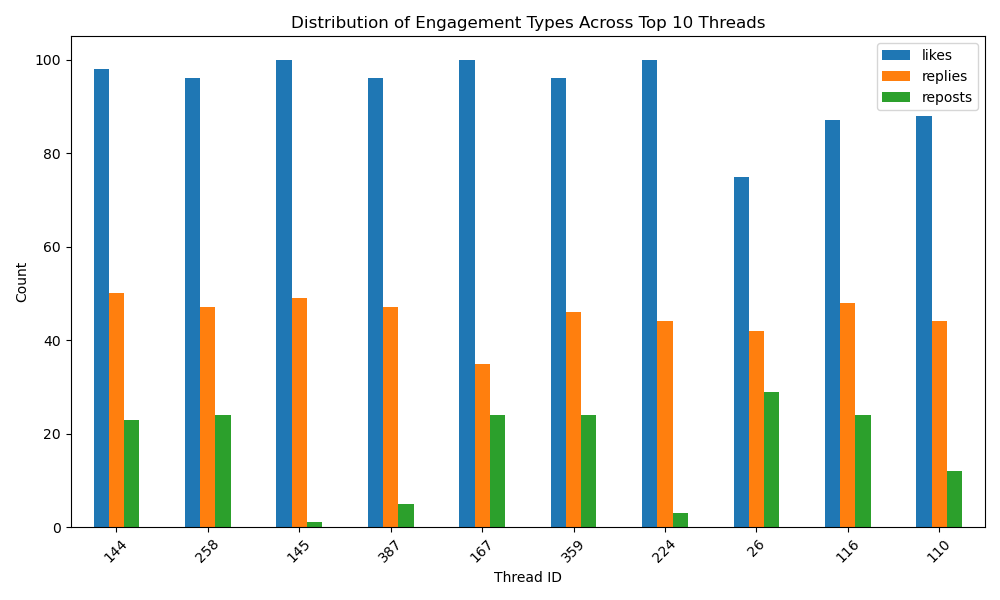
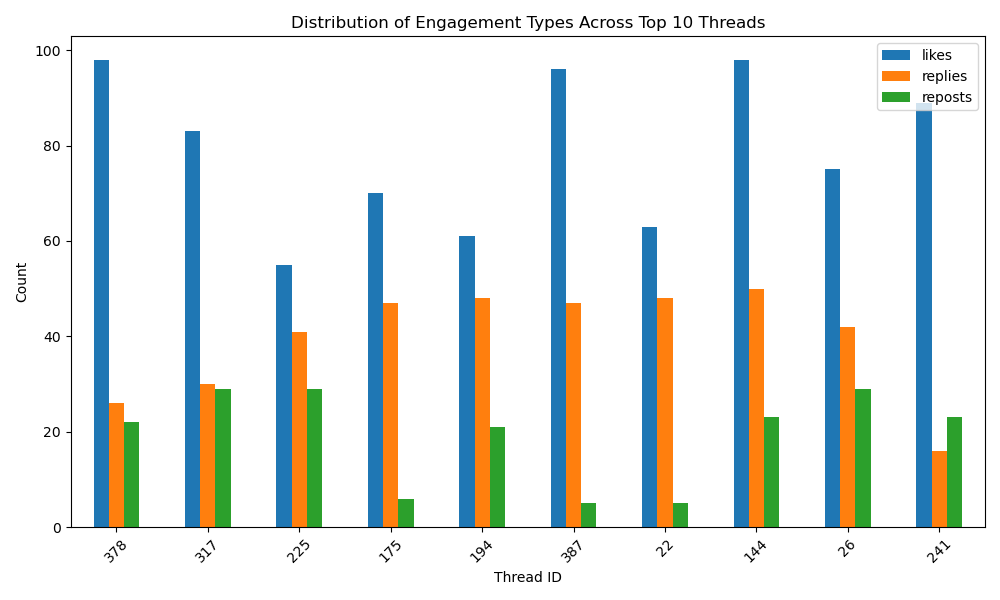
add alternate scoring function

diff --git a/main.py b/main.py
@@ -5,6 +5,7 @@ import random
 # Import functions from your other modules
 from generate_threads import generate_synthetic_thread_data
 from score_threads import score_threads_data
+from score_threads import alternate_score_threads_data
 from sort_threads import get_top_threads
 from multi_user import assign_users_to_threads
 from plot_threads import generate_and_save_plots
@@ -71,14 +72,70 @@ def run_full_pipeline():
 
         # Plot user performance distribution
         print("\nPlotting user performance distribution...")
-        plot_user_performance_distribution(df_user_avg_scores)
+        plot_user_performance_distribution(df_user_avg_scores, plot_path="images/user_score_distribution.png")
     else:
         print("Could not calculate user average scores or plot distribution.")
 
     # 6. Generate and save plots
     # This function expects the full scored DataFrame and the top 10 DataFrame
-    generate_and_save_plots(df_scored, df_top_10)
+    generate_and_save_plots(df_scored, df_top_10, path_scatter="images/score_vs_age.png", path_bar_plot="images/top10_engagements.png")
+
+        # --- ALTERNATE SCORING PIPELINE (STEP 7) ---
+    print("\n--- Running Alternate Scoring Pipeline ---")
+
+    # 7a. Calculate alternate engagement score
+    print("\n7a. Calculating ALTERNATE engagement scores...")
+    df_scored_alternate = alternate_score_threads_data(df_threads, decay_constant=120)
+    print("Alternate engagement scores calculated.")
+
+    # Save the full scored DataFrame (Alternate)
+    csv_path_scored_alternate = "threads_scored_alternate.csv"
+    df_scored_alternate.to_csv(csv_path_scored_alternate, index=False)
+    print(f"Full ALTERNATE scored data saved to {csv_path_scored_alternate}")
+
+    # 7b. Assign users to threads (Alternate Scored Data)
+    print("\n7b. Assigning users to ALTERNATE scored threads...")
+    df_with_users_alternate = assign_users_to_threads(df_scored_alternate, num_unique_users=100)
+    print(f"User IDs assigned to {len(df_with_users_alternate)} ALTERNATE scored threads.")
+
+    csv_path_with_users_alternate = "threads_with_users_alternate.csv"
+    df_with_users_alternate.to_csv(csv_path_with_users_alternate, index=False)
+    print(f"ALTERNATE data with user assignments saved to {csv_path_with_users_alternate}")
+
+    # 7c. Get top 10 threads (Alternate Scored Data)
+    print("\n7c. Getting top 10 ALTERNATE scored threads...")
+    # IMPORTANT: get_top_threads needs to be flexible for 'alternate_score'
+    df_top_10_alternate = get_top_threads(df_scored_alternate, top_n=10)
+    print("Top 10 ALTERNATE threads extracted.")
+
+    csv_path_top_threads_alternate = "top_threads_alternate.csv"
+    df_top_10_alternate.to_csv(csv_path_top_threads_alternate, index=False)
+    print(f"Top 10 ALTERNATE threads saved to {csv_path_top_threads_alternate}")
+
+    # 7d. Calculate Average Post Score for Each User (Alternate Scored Data)
+    print("\n7d. Calculating average post score per user for ALTERNATE data...")
+    # IMPORTANT: calculate_average_score_per_user needs to be flexible for 'alternate_score'
+    df_user_avg_scores_alternate = calculate_average_score_per_user(csv_path_with_users_alternate)
     
+    if not df_user_avg_scores_alternate.empty:
+        print("Average post score per user calculated for ALTERNATE data. Head:")
+        print(df_user_avg_scores_alternate.head())
+        print(f"Total unique users with scores (ALTERNATE): {len(df_user_avg_scores_alternate)}")
+
+        csv_path_avg_scores_alternate = "user_average_scores_alternate.csv"
+        df_user_avg_scores_alternate.to_csv(csv_path_avg_scores_alternate, index=False)
+        print(f"ALTERNATE User average scores saved to {csv_path_avg_scores_alternate}")
+
+        print("\nPlotting ALTERNATE user performance distribution...")
+        plot_user_performance_distribution(df_user_avg_scores_alternate, plot_path="images/alter_user_score_distribution.png")
+    else:
+        print("Could not calculate user average scores or plot distribution for ALTERNATE data.")
+
+    # 7e. Generate and save plots (Alternate Scored Data)
+    print("\n7e. Generating plots for ALTERNATE scored data...")
+    # IMPORTANT: generate_and_save_plots needs to be flexible for 'alternate_score' and plot prefix
+    generate_and_save_plots(df_scored_alternate, df_top_10_alternate, path_scatter="images/alter_score_vs_age.png", path_bar_plot="images/alter_top10_engagements.png")
+    print("All ALTERNATE plots generated and saved.")
 
     print("\n--- Thread Scorer Pipeline Completed ---")
 

diff --git a/score_threads.py b/score_threads.py
@@ -7,15 +7,29 @@ def score_threads_data(df: pd.DataFrame, decay_constant) -> pd.DataFrame:
     df_loaded = pd.read_csv("threads.csv")
 
     # Repeat the vectorized score calculation on the loaded DataFrame
-    df_loaded['score'] = (df_loaded['likes']*2) + (df_loaded['replies']*3) + (df_loaded['reposts']*2.5) * np.exp(-df_loaded['age_minutes']/decay_constant)
+    df_loaded['score'] = ((df_loaded['likes']*2) + (df_loaded['replies']*3) + (df_loaded['reposts']*2.5)) * np.exp(-df_loaded['age_minutes']/decay_constant)
     
     return df_loaded
+
+def alternate_score_threads_data(df: pd.DataFrame, decay_constant) -> pd.DataFrame:
+
+# Load the numeric thread dataset from the saved CSV
+    df_alternate = df.copy() 
+
+    # Repeat the vectorized score calculation on the loaded DataFrame
+    df_alternate['score'] = (np.log2((df_alternate['likes']*2) + 1) + np.log2((df_alternate['replies']*3) + 1) + np.log2((df_alternate['reposts']*2.5) + 1)) * np.exp(-df_alternate['age_minutes']/decay_constant)    
+    return df_alternate
 
 if __name__ == "__main__":
 # Save updated DataFrame
     df_loaded = pd.read_csv("threads.csv")
-    df_scored = score_threads_data(df_loaded)
+
+    df_scored = score_threads_data(df_loaded, decay_constant=120)
+    df_scored = alternate_score_threads_data(df_loaded, decay_constant=120)
 
     csv_path_scored_from_loaded = "threads_scored.csv"
+    csv_path_scored_from_loaded_alternate = "alternate_threads_scored.csv"
 
     df_scored.to_csv(csv_path_scored_from_loaded, index=False)
+    df_scored.to_csv(csv_path_scored_from_loaded_alternate, index=False)
+

diff --git a/plot_threads.py b/plot_threads.py
@@ -1,7 +1,7 @@
 import pandas as pd
 import matplotlib.pyplot as plt
 
-def generate_and_save_plots(df_full_scored: pd.DataFrame, df_top_10: pd.DataFrame):
+def generate_and_save_plots(df_full_scored: pd.DataFrame, df_top_10: pd.DataFrame, path_scatter: str, path_bar_plot:str):
 
     # --- Plot 1: Score vs. Age of Thread ---
     plt.figure(figsize=(8, 6))
@@ -11,7 +11,7 @@ def generate_and_save_plots(df_full_scored: pd.DataFrame, df_top_10: pd.DataFram
     plt.title('Score vs. Age of Thread')
     plt.grid(True)
     plt.tight_layout()
-    plt.savefig("images/score_vs_age.png")
+    plt.savefig(path_scatter)
     plt.close() # Close the figure to free up memory
 
     # --- Plot 2: Distribution of engagement types across top 10 threads ---
@@ -23,7 +23,7 @@ def generate_and_save_plots(df_full_scored: pd.DataFrame, df_top_10: pd.DataFram
     plt.title('Distribution of Engagement Types Across Top 10 Threads')
     plt.xticks(rotation=45)
     plt.tight_layout()
-    plt.savefig("images/top10_engagements.png")
+    plt.savefig(path_bar_plot)
     plt.close() # Close the figure
 
 if __name__ == "__main__":    

diff --git a/multi_user_analysis.py b/multi_user_analysis.py
@@ -12,7 +12,7 @@ def calculate_average_score_per_user(input_csv_path: str = "threads_with_users.c
 
 
 
-def plot_user_performance_distribution(df_user_scores: pd.DataFrame):
+def plot_user_performance_distribution(df_user_scores: pd.DataFrame, plot_path: str):
 
 
     #generate plot for each user
@@ -24,7 +24,6 @@ def plot_user_performance_distribution(df_user_scores: pd.DataFrame):
     plt.grid(axis='y', alpha=0.75)
     plt.tight_layout()
 
-    plot_path = "images/user_score_distribution.png"
     plt.savefig(plot_path)
     plt.close() # Close the figure to free up memory
 
